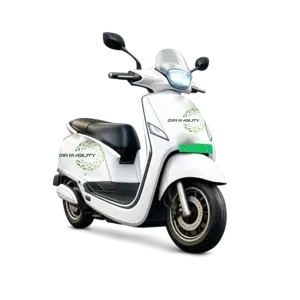
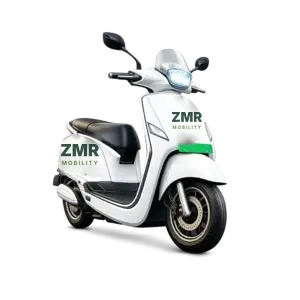
Update ZMR branding and add original customer slideshow
- Replace the circular leaf logo with a text wordmark "ZMR Mobility"
  (BrandWordmark) in the desktop/mobile header and footer; favicon and app
  icons become a simple "ZMR" monogram in the site greens; new social image
  and structured-data logo use the wordmark only. Leaf-logo files move out
  of public/ to assets/retired-branding (not served).
- Vehicle category images: the leaf decal is replaced with a plain
  "ZMR / MOBILITY" text decal (rebuilt from the untouched originals); code
  references point at new -v3 files so cached optimised copies refresh.
- Homepage hero: the four original customer photographs replace the slide
  images (the key-handover photo with the old logo is removed). Files are
  copied byte-for-byte into public/customers and served unoptimised, shown
  whole (object-contain) on the plain tint background in a fixed frame.
  Autoplay every 5 s with loop, arrows, dots, pause/play, swipe, pause on
  mouse hover and keyboard focus, no autoplay with reduced motion.

Claude-Session: https://claude.ai/code/session_01Ws8X2Q5UPEuRD4Nii7WhSh

Changed region(s): [[0.18, 0.45, 0.36, 0.57], [0.54, 0.36, 0.69, 0.45]]

diff --git a/src/presentation/components/HeroBanner.tsx b/src/presentation/components/HeroBanner.tsx
@@ -11,9 +11,9 @@ type Slide = {
   sub: string;
   cta: { label: string; href: string };
   secondary?: { label: string; href: string };
+  /** Original customer photograph, served as-is (see CUSTOMER_PHOTOS). */
   image: string;
   alt: string;
-  imagePosition: string;
 };
 
 // Copy uses only information already published by ZMR Mobility.
@@ -24,9 +24,8 @@ const SLIDES: Slide[] = [
     sub: "Browse pre-owned electric scooters and bikes — compare up to 3 side by side and get help with warranty and ownership transfer.",
     cta: { label: "View all EVs", href: "/explore" },
     secondary: { label: "Compare EVs", href: "/compare" },
-    image: "/hero-handover.webp",
-    alt: "ZMR Mobility team handing over vehicle keys",
-    imagePosition: "object-[60%_30%]",
+    image: "/customers/zmr-customer-01.jpeg",
+    alt: "A customer standing beside a red and black BGauss electric scooter",
   },
   {
     eyebrow: "Fleet Leasing",
@@ -34,37 +33,40 @@ const SLIDES: Slide[] = [
     sub: "Flexible monthly leasing plans with IoT tracking for gig workers, businesses and fleets.",
     cta: { label: "Explore leasing", href: "/leasing/vehicles/3-wheeler-cargo" },
     secondary: { label: "Cargo EVs", href: "/explore?type=3-wheeler-cargo" },
-    image: "/sampleVechiles/mahindra-treo-zor-46219.webp",
-    alt: "Electric cargo three-wheeler on a city road",
-    imagePosition: "object-[60%_50%]",
+    image: "/customers/zmr-customer-02.jpeg",
+    alt: "A customer standing with a dark blue BGauss electric scooter",
   },
   {
     eyebrow: "Sell Your EV",
     title: ["Sell your EV", "at the right price"],
     sub: "Answer a few quick questions and our team will contact you with an offer.",
     cta: { label: "Sell your EV", href: "/sell-ev" },
-    image: "/sampleVechiles/c12i-max6a0da949da693.webp",
-    alt: "Green electric scooter",
-    imagePosition: "object-center",
+    image: "/customers/zmr-customer-03.jpeg",
+    alt: "A customer standing with a matte green BGauss electric scooter",
   },
   {
     eyebrow: "Smart & Connected",
     title: ["IoT-enabled EVs,", "monitored 24×7"],
     sub: "Real-time GPS, geo-fencing and battery health monitoring on ZMR vehicles.",
     cta: { label: "Know more", href: "/about" },
-    image: "/about-hero.webp",
-    alt: "Illustration of connected electric vehicles",
-    imagePosition: "object-center",
+    image: "/customers/zmr-customer-04.jpeg",
+    alt: "A customer standing behind a silver BGauss electric scooter",
   },
 ];
 
-const INTERVAL = 7000;
+// The hero photos are ZMR customers' own photographs (public/customers). They are served
+// unchanged — no resizing or re-encoding — and shown whole (object-contain) on a plain
+// background so no one is cropped.
+const INTERVAL = 5000;
+const SWIPE_PX = 40;
 
 /** Home hero (Cream section) — lightweight CSS carousel. */
 export default function HeroBanner() {
   const [index, setIndex] = useState(0);
   const [userPaused, setUserPaused] = useState(false);
   const [hoverPaused, setHoverPaused] = useState(false);
+  const [focusPaused, setFocusPaused] = useState(false);
+  const touchX = useRef<number | null>(null);
   const [offscreen, setOffscreen] = useState(false);
   const [reducedMotion, setReducedMotion] = useState(false);
   // Slides whose images may load. Only the first loads up front (it's the LCP image).
@@ -90,7 +92,7 @@ export default function HeroBanner() {
     return () => { mq.removeEventListener("change", onChange); io.disconnect(); document.removeEventListener("visibilitychange", onVis); };
   }, []);
 
-  const playing = !userPaused && !hoverPaused && !offscreen && !reducedMotion;
+  const playing = !userPaused && !hoverPaused && !focusPaused && !offscreen && !reducedMotion;
 
   useEffect(() => {
     if (!playing) return;
@@ -108,15 +110,28 @@ export default function HeroBanner() {
       className="relative bg-cream pt-[88px] lg:pt-[148px] pb-10 px-4 md:px-6"
       aria-roledescription="carousel"
       aria-label="Highlights"
-      onMouseEnter={() => setHoverPaused(true)}
-      onMouseLeave={() => setHoverPaused(false)}
-      onFocus={() => setHoverPaused(true)}
-      onBlur={() => setHoverPaused(false)}
+      // Hover-pause for real mouse pointers only: taps on touch screens fire a "mouse enter"
+      // without a matching leave, which would otherwise leave autoplay stuck paused.
+      onPointerEnter={(e) => { if (e.pointerType === "mouse") setHoverPaused(true); }}
+      onPointerLeave={(e) => { if (e.pointerType === "mouse") setHoverPaused(false); }}
+      // Pause while keyboard focus is anywhere inside the carousel.
+      onFocus={() => setFocusPaused(true)}
+      onBlur={(e) => { if (!e.currentTarget.contains(e.relatedTarget as Node | null)) setFocusPaused(false); }}
     >
       <h1 className="sr-only">ZMR Mobility — buy, lease, rent and sell pre-owned electric vehicles</h1>
       <div className="max-w-7xl mx-auto grid lg:grid-cols-2 gap-8 lg:gap-12 items-center">
-        {/* Image (fixed aspect ratio → no layout shift) */}
-        <div className="relative order-1 lg:order-2 aspect-[16/10] lg:aspect-[5/4] rounded-3xl overflow-hidden bg-tint shadow-card">
+        {/* Photo frame: fixed size per breakpoint (no layout shift between portrait photos of
+            different proportions); each photo is shown in full on the plain tint background. */}
+        <div
+          className="relative order-1 lg:order-2 aspect-[4/5] sm:aspect-[4/3] lg:aspect-auto lg:h-[min(600px,calc(100svh-200px))] lg:min-h-[440px] rounded-3xl overflow-hidden bg-tint shadow-card touch-pan-y"
+          onTouchStart={(e) => { touchX.current = e.touches[0].clientX; }}
+          onTouchEnd={(e) => {
+            if (touchX.current === null) return;
+            const dx = e.changedTouches[0].clientX - touchX.current;
+            touchX.current = null;
+            if (Math.abs(dx) > SWIPE_PX) go(index + (dx < 0 ? 1 : -1));
+          }}
+        >
           {SLIDES.map((s, i) =>
             mounted.has(i) ? (
               <Image
@@ -125,10 +140,11 @@ export default function HeroBanner() {
                 alt={i === index ? s.alt : ""}
                 aria-hidden={i !== index}
                 fill
+                // Serve the original JPEG bytes (no optimiser resizing / re-encoding).
+                unoptimized
                 priority={i === 0}
                 fetchPriority={i === 0 ? "high" : "auto"}
-                sizes="(min-width: 1280px) 600px, (min-width: 1024px) 50vw, 100vw"
-                className={`object-cover ${s.imagePosition} transition-opacity duration-700 ${i === index ? "opacity-100" : "opacity-0"}`}
+                className={`object-contain transition-opacity duration-500 ${i === index ? "opacity-100" : "opacity-0"}`}
               />
             ) : null
           )}

diff --git a/src/presentation/components/CategoryModal.tsx b/src/presentation/components/CategoryModal.tsx
@@ -11,7 +11,7 @@ const categories = [
     name: "2 Wheeler",
     slug: "2-wheeler",
     icon: Zap,
-    image: "/category-images/2-wheeler-v2.webp",
+    image: "/category-images/2-wheeler-v3.webp",
     fallbackImage: "https://images.unsplash.com/photo-1619767886558-efdc259cde1a?auto=format&fit=crop&q=80&w=400",
     description: "Electric Scooters & E-Bikes for personal & delivery use."
   },
@@ -19,7 +19,7 @@ const categories = [
     name: "3 Wheeler (Cargo)",
     slug: "3-wheeler-cargo",
     icon: Package,
-    image: "/category-images/3-wheeler-cargo-v2.webp",
+    image: "/category-images/3-wheeler-cargo-v3.webp",
     fallbackImage: "https://images.unsplash.com/photo-1595113316349-9fa4ee24f884?auto=format&fit=crop&q=80&w=400",
     description: "Reliable electric loaders for last-mile logistics."
   },
@@ -27,7 +27,7 @@ const categories = [
     name: "3 Wheeler (Passenger)",
     slug: "3-wheeler-passenger",
     icon: Users,
-    image: "/category-images/3-wheeler-passenger-v2.webp",
+    image: "/category-images/3-wheeler-passenger-v3.webp",
     fallbackImage: "https://images.unsplash.com/photo-1567113463300-102a7eb3cb26?auto=format&fit=crop&q=80&w=400",
     description: "Eco-friendly auto-rickshaws for urban transport."
   },
@@ -35,7 +35,7 @@ const categories = [
     name: "4 Wheeler (Passenger)",
     slug: "4-wheeler-passenger",
     icon: Car,
-    image: "/category-images/4-wheeler-passenger-v2.webp",
+    image: "/category-images/4-wheeler-passenger-v3.webp",
     fallbackImage: "https://images.unsplash.com/photo-1617788138017-80ad40651399?auto=format&fit=crop&q=80&w=400",
     description: "Premium electric cars for personal & fleet use."
   },
@@ -43,7 +43,7 @@ const categories = [
     name: "4 Wheeler (Cargo)",
     slug: "4-wheeler-cargo",
     icon: Package,
-    image: "/category-images/4-wheeler-cargo-v2.webp",
+    image: "/category-images/4-wheeler-cargo-v3.webp",
     fallbackImage: "https://images.unsplash.com/photo-1580674285054-bed31e145f59?auto=format&fit=crop&q=80&w=400",
     description: "Heavy-duty electric cargo vans for logistics."
   }

diff --git a/src/presentation/components/CategorySection.tsx b/src/presentation/components/CategorySection.tsx
@@ -6,11 +6,11 @@ import Link from "next/link";
 import { CalendarDays, ShoppingBag, KeyRound, ChevronRight } from "lucide-react";
 
 const categories = [
-  { name: "2 Wheeler", slug: "2-wheeler", image: "/category-images/2-wheeler-v2.webp", description: "Electric scooters & e-bikes for personal and delivery use." },
-  { name: "3 Wheeler (Cargo)", slug: "3-wheeler-cargo", image: "/category-images/3-wheeler-cargo-v2.webp", description: "Electric loaders for last-mile logistics." },
-  { name: "3 Wheeler (Passenger)", slug: "3-wheeler-passenger", image: "/category-images/3-wheeler-passenger-v2.webp", description: "Eco-friendly auto-rickshaws for urban transport." },
-  { name: "4 Wheeler (Passenger)", slug: "4-wheeler-passenger", image: "/category-images/4-wheeler-passenger-v2.webp", description: "Electric cars for personal and fleet use." },
-  { name: "4 Wheeler (Cargo)", slug: "4-wheeler-cargo", image: "/category-images/4-wheeler-cargo-v2.webp", description: "Electric cargo vans for logistics." },
+  { name: "2 Wheeler", slug: "2-wheeler", image: "/category-images/2-wheeler-v3.webp", description: "Electric scooters & e-bikes for personal and delivery use." },
+  { name: "3 Wheeler (Cargo)", slug: "3-wheeler-cargo", image: "/category-images/3-wheeler-cargo-v3.webp", description: "Electric loaders for last-mile logistics." },
+  { name: "3 Wheeler (Passenger)", slug: "3-wheeler-passenger", image: "/category-images/3-wheeler-passenger-v3.webp", description: "Eco-friendly auto-rickshaws for urban transport." },
+  { name: "4 Wheeler (Passenger)", slug: "4-wheeler-passenger", image: "/category-images/4-wheeler-passenger-v3.webp", description: "Electric cars for personal and fleet use." },
+  { name: "4 Wheeler (Cargo)", slug: "4-wheeler-cargo", image: "/category-images/4-wheeler-cargo-v3.webp", description: "Electric cargo vans for logistics." },
 ];
 
 const MODES = [

diff --git a/src/presentation/components/Navbar.tsx b/src/presentation/components/Navbar.tsx
@@ -13,6 +13,7 @@ import {
   FALLBACK_MAKES, ALL_BRANDS_HREF, exploreHref, priceHref, bodyTypeHref, type MakeWithModels, type PriceBucket,
 } from "@/lib/explore";
 import { useCompare, compareHref } from "./compare/compareStore";
+import BrandWordmark from "./BrandWordmark";
 
 // Category picker modal is only downloaded when first opened.
 const CategoryModal = dynamic(() => import("./CategoryModal"), { ssr: false });
@@ -363,17 +364,10 @@ export default function Navbar({ makes = [], priceBuckets = DEFAULT_PRICE_BUCKET
             panels above the Explore-by ribbon below instead of underneath it. */}
         <div className="relative z-20 bg-cream/95 backdrop-blur border-b border-ink/10">
           <div className="max-w-7xl mx-auto flex items-center gap-2 sm:gap-3 lg:gap-5 px-3 sm:px-4 md:px-6 h-[72px] lg:h-[84px]">
-            <Link href="/" className="shrink-0 flex items-center" aria-label="ZMR Mobility home">
-              <Image
-                src="/zmr-logo-full.png"
-                alt="ZMR Mobility"
-                width={579}
-                height={361}
-                sizes="(min-width: 1024px) 122px, 103px"
-                quality={80}
-                className="h-11 max-[359px]:h-9 sm:h-16 lg:h-[76px] w-auto"
-                priority
-              />
+            <Link href="/" className="shrink-0 flex items-center rounded-md" aria-label="ZMR Mobility home">
+              {/* Stacked on small phones so the header actions still fit; one line from sm up. */}
+              <span className="sm:hidden"><BrandWordmark stacked className="text-[22px] max-[359px]:text-[19px]" /></span>
+              <span className="hidden sm:inline"><BrandWordmark className="text-[22px] lg:text-[26px]" /></span>
             </Link>
 
             <div className="hidden lg:block"><CitySelector menu={menu("city")} /></div>

diff --git a/src/presentation/components/CategorySelector.tsx b/src/presentation/components/CategorySelector.tsx
@@ -17,7 +17,7 @@ const categories = [
     shortName: "2W",
     slug: "2-wheeler",
     icon: Bike,
-    image: "/category-images/2-wheeler-v2.webp",
+    image: "/category-images/2-wheeler-v3.webp",
     fallbackImage: "https://images.unsplash.com/photo-1619767886558-efdc259cde1a?auto=format&fit=crop&q=80&w=400",
   },
   {
@@ -25,7 +25,7 @@ const categories = [
     shortName: "3W (P)",
     slug: "3-wheeler-passenger",
     icon: Users,
-    image: "/category-images/3-wheeler-passenger-v2.webp",
+    image: "/category-images/3-wheeler-passenger-v3.webp",
     fallbackImage: "https://images.unsplash.com/photo-1567113463300-102a7eb3cb26?auto=format&fit=crop&q=80&w=400",
   },
   {
@@ -33,7 +33,7 @@ const categories = [
     shortName: "3W (C)",
     slug: "3-wheeler-cargo",
     icon: Package,
-    image: "/category-images/3-wheeler-cargo-v2.webp",
+    image: "/category-images/3-wheeler-cargo-v3.webp",
     fallbackImage: "https://images.unsplash.com/photo-1595113316349-9fa4ee24f884?auto=format&fit=crop&q=80&w=400",
   },
   {
@@ -41,7 +41,7 @@ const categories = [
     shortName: "4W (P)",
     slug: "4-wheeler-passenger",
     icon: Car,
-    image: "/category-images/4-wheeler-passenger-v2.webp",
+    image: "/category-images/4-wheeler-passenger-v3.webp",
     fallbackImage: "https://images.unsplash.com/photo-1617788138017-80ad40651399?auto=format&fit=crop&q=80&w=400",
   },
   {
@@ -49,7 +49,7 @@ const categories = [
     shortName: "4W (C)",
     slug: "4-wheeler-cargo",
     icon: Truck,
-    image: "/category-images/4-wheeler-cargo-v2.webp",
+    image: "/category-images/4-wheeler-cargo-v3.webp",
     fallbackImage: "https://images.unsplash.com/photo-1580674285054-bed31e145f59?auto=format&fit=crop&q=80&w=400",
   },
 ];

diff --git a/src/presentation/components/FleetPickerModal.tsx b/src/presentation/components/FleetPickerModal.tsx
@@ -39,11 +39,11 @@ const INTENTS = [
 ];
 
 const CATEGORIES = [
-  { name: "2 Wheeler",       slug: "2-wheeler",            icon: Zap,     image: "/category-images/2-wheeler-v2.webp",           desc: "Scooters & E-Bikes"    },
-  { name: "3W Cargo",        slug: "3-wheeler-cargo",       icon: Package, image: "/category-images/3-wheeler-cargo-v2.webp",     desc: "Cargo Loaders"         },
-  { name: "3W Passenger",    slug: "3-wheeler-passenger",   icon: Users,   image: "/category-images/3-wheeler-passenger-v2.webp", desc: "E-Rickshaws & Autos"   },
-  { name: "4W Passenger",    slug: "4-wheeler-passenger",   icon: Car,     image: "/category-images/4-wheeler-passenger-v2.webp", desc: "Electric Cars"         },
-  { name: "4W Cargo",        slug: "4-wheeler-cargo",       icon: Package, image: "/category-images/4-wheeler-cargo-v2.webp",     desc: "Cargo Vans"            },
+  { name: "2 Wheeler",       slug: "2-wheeler",            icon: Zap,     image: "/category-images/2-wheeler-v3.webp",           desc: "Scooters & E-Bikes"    },
+  { name: "3W Cargo",        slug: "3-wheeler-cargo",       icon: Package, image: "/category-images/3-wheeler-cargo-v3.webp",     desc: "Cargo Loaders"         },
+  { name: "3W Passenger",    slug: "3-wheeler-passenger",   icon: Users,   image: "/category-images/3-wheeler-passenger-v3.webp", desc: "E-Rickshaws & Autos"   },
+  { name: "4W Passenger",    slug: "4-wheeler-passenger",   icon: Car,     image: "/category-images/4-wheeler-passenger-v3.webp", desc: "Electric Cars"         },
+  { name: "4W Cargo",        slug: "4-wheeler-cargo",       icon: Package, image: "/category-images/4-wheeler-cargo-v3.webp",     desc: "Cargo Vans"            },
 ];
 
 const BASE_PATH: Record<Intent, string> = {

diff --git a/src/presentation/components/Footer.tsx b/src/presentation/components/Footer.tsx
@@ -1,5 +1,5 @@
 import Link from "next/link";
-import Image from "next/image";
+import BrandWordmark from "./BrandWordmark";
 import { Linkedin, Instagram, Mail, MapPin, Phone } from "lucide-react";
 import {
   BODY_TYPES, YEAR_OPTIONS, DEFAULT_PRICE_BUCKETS, priceHref, bodyTypeHref, exploreHref, type PriceBucket,
@@ -62,8 +62,8 @@ export default function Footer({ priceBuckets = DEFAULT_PRICE_BUCKETS }: { price
         <div className="grid grid-cols-1 md:grid-cols-2 lg:grid-cols-6 gap-10 mb-12 [&>*]:min-w-0">
           {/* Brand Column */}
           <div className="lg:col-span-2 space-y-6">
-            <Link href="/" className="inline-block rounded-2xl bg-cream px-4 py-2" aria-label="ZMR Mobility home">
-              <Image src="/zmr-logo-full.png" alt="ZMR Mobility" width={579} height={361} sizes="128px" quality={80} className="h-20 w-auto" />
+            <Link href="/" className="inline-block rounded-md" aria-label="ZMR Mobility home">
+              <BrandWordmark tone="light" className="text-3xl" />
             </Link>
             <p className="text-cream/85 text-sm leading-relaxed max-w-sm">
               India&apos;s technology-first EV asset management company — making electric mobility accessible,

diff --git a/src/presentation/components/BrandWordmark.tsx b/src/presentation/components/BrandWordmark.tsx
@@ -1,0 +1,22 @@
+/**
+ * Text wordmark used as the site's brand mark ("ZMR Mobility"), set in the site font.
+ * `stacked` puts "Mobility" under "ZMR" for narrow headers.
+ */
+export default function BrandWordmark({
+  tone = "dark",
+  stacked = false,
+  className = "",
+}: {
+  tone?: "dark" | "light";
+  stacked?: boolean;
+  className?: string;
+}) {
+  const zmr = tone === "dark" ? "text-forest" : "text-cream";
+  const rest = tone === "dark" ? "text-primary" : "text-lime";
+  return (
+    <span className={`inline-flex leading-none tracking-tight whitespace-nowrap ${stacked ? "flex-col" : "items-baseline gap-[0.28em]"} ${className}`}>
+      <span className={`font-black ${zmr}`}>ZMR</span>
+      <span className={`font-semibold ${rest} ${stacked ? "text-[0.62em] mt-0.5" : ""}`}>Mobility</span>
+    </span>
+  );
+}

diff --git a/src/app/(public)/blogs/[slug]/page.tsx b/src/app/(public)/blogs/[slug]/page.tsx
@@ -71,7 +71,7 @@ export default async function BlogPostPage(props: { params: Promise<{ slug: stri
     author: isTeamAuthor(blog.authorName)
       ? { "@type": "Organization", name: blog.authorName, url: SITE_URL }
       : { "@type": "Person", name: blog.authorName },
-    publisher: { "@type": "Organization", name: SITE_NAME, logo: { "@type": "ImageObject", url: `${SITE_URL}/zmr-logo-official.png` } },
+    publisher: { "@type": "Organization", name: SITE_NAME, logo: { "@type": "ImageObject", url: `${SITE_URL}/zmr-mobility-wordmark.png` } },
     mainEntityOfPage: { "@type": "WebPage", "@id": url },
     articleSection: blog.category,
     keywords: blog.tags.length ? blog.tags.join(", ") : undefined,

diff --git a/src/lib/explore.ts b/src/lib/explore.ts
@@ -125,7 +125,7 @@ export interface BodyType {
  * as Scooter or Bike in admin are treated as scooters.
  */
 export const BODY_TYPES: BodyType[] = [
-  { slug: 'scooter', label: 'Scooter', hint: 'Electric scooters', category: 'TWO_WHEELER', style: 'SCOOTER', image: '/category-images/2-wheeler-v2.webp' },
+  { slug: 'scooter', label: 'Scooter', hint: 'Electric scooters', category: 'TWO_WHEELER', style: 'SCOOTER', image: '/category-images/2-wheeler-v3.webp' },
   { slug: 'bike', label: 'Bike', hint: 'Electric motorcycles', category: 'TWO_WHEELER', style: 'BIKE' },
 ];
 

diff --git a/src/app/layout.tsx b/src/app/layout.tsx
@@ -64,7 +64,7 @@ const jsonLd = [
     name: SITE_NAME,
     legalName: "ZMR Mobility Private Limited",
     url: SITE_URL,
-    logo: `${SITE_URL}/zmr-logo-official.png`,
+    logo: `${SITE_URL}/zmr-mobility-wordmark.png`,
     email: SITE_EMAIL,
     telephone: SITE_PHONE,
     sameAs: SITE_SOCIALS,

diff --git a/assets/retired-branding/README.md b/assets/retired-branding/README.md
@@ -1,0 +1,6 @@
+# Retired branding (not published)
+
+The circular leaf logo was retired from the website in October 2026 because it resembled
+another company's mark. The site now uses the text wordmark "ZMR Mobility"
+(`src/presentation/components/BrandWordmark.tsx`) and a "ZMR" monogram for icons.
+These files are kept for the record only and are not served from `public/`.
